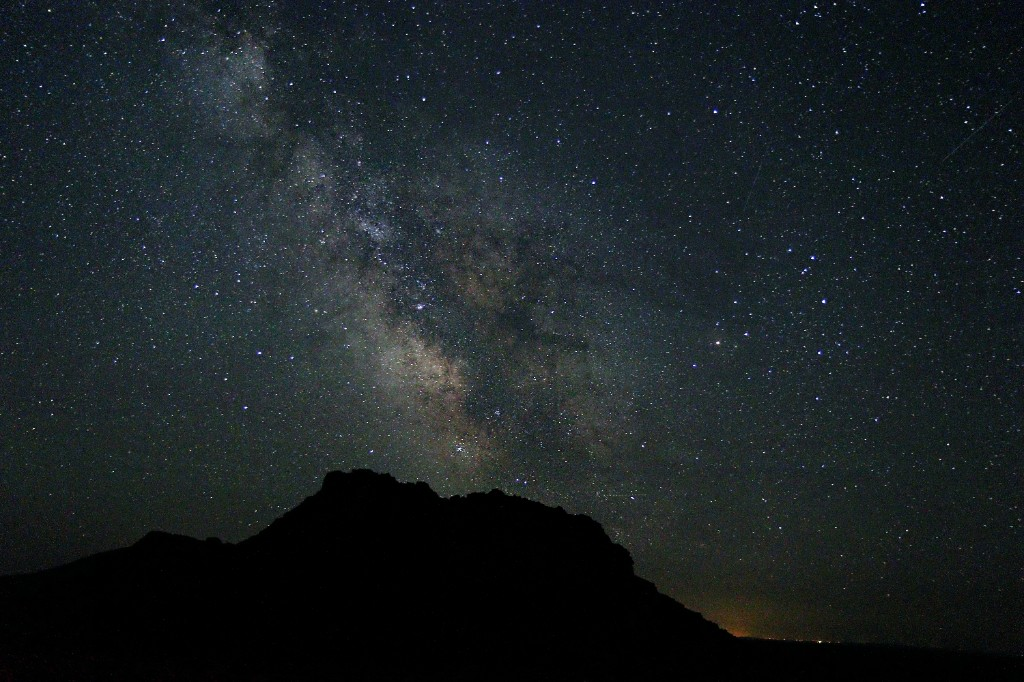
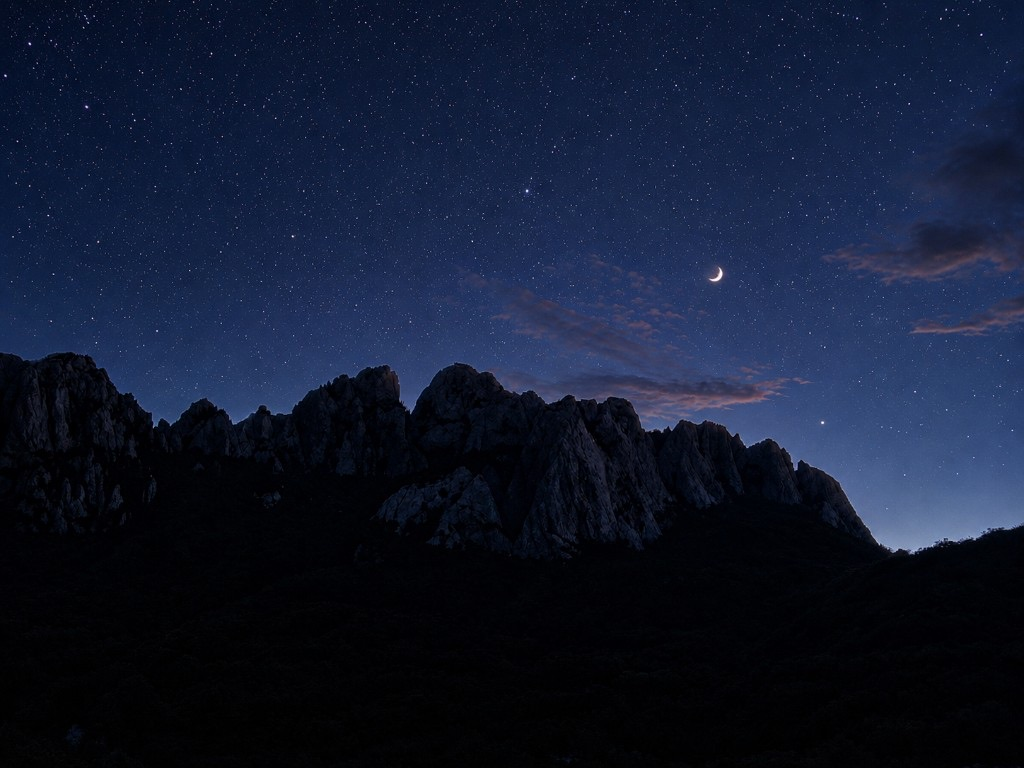
commit

diff --git a/next.config.ts b/next.config.ts
@@ -26,6 +26,16 @@ const nextConfig: NextConfig = {
           },
         ],
       },
+      {
+        source: "/video/:path*",
+        headers: [
+          {
+            key: "Cache-Control",
+            value: "public, max-age=31536000, stale-while-revalidate=86400",
+          },
+          { key: "Accept-Ranges", value: "bytes" },
+        ],
+      },
     ];
   },
   webpack: (config, { dev }) => {
